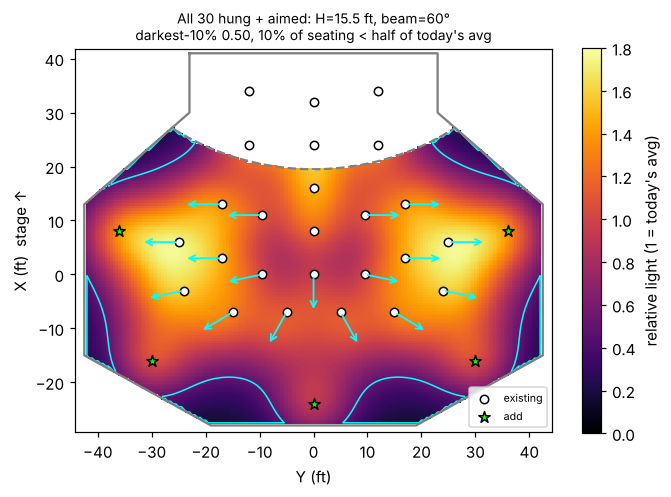
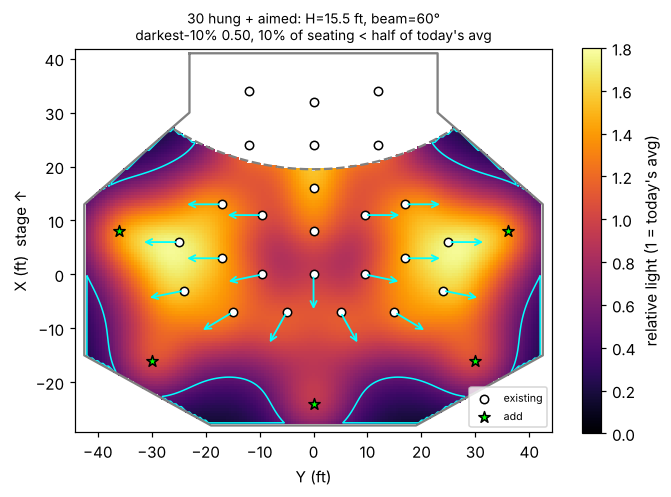
Plan for 25 fixtures: power/amps section, more-fixtures analysis, 25-fixture DMX chain and quantities
Claude-Session: https://claude.ai/code/session_017hiBDFPaLAENvL3psSk2oc

Changed region(s): [[0.2683, 0.0, 0.6557, 0.0604]]

diff --git a/tools/aiming.py b/tools/aiming.py
@@ -6,7 +6,7 @@ the platform). The script tries offsets and keeps whichever lifts the darkest
 10 % of seats most, while the middle of the room must keep >= 85 % of its
 straight-down level. Tilt is capped at MAX_TILT to limit glare.
 
-Usage: python3 tools/aiming.py [height_ft] [beam_deg]
+Usage: python3 tools/aiming.py [height_ft] [beam_deg] [--no-spares]
 """
 import math
 import sys
@@ -22,6 +22,7 @@ CENTRE = (2, 0)          # roughly the middle of the seating
 OFFSETS = [0, 1, 2, 3, 4, 5, 6, 7, 8, 10]
 MAX_TILT = 25            # degrees from straight down
 STAGE_X = 20             # fixtures at/over the stage are left alone
+NO_SPARES = "--no-spares" in sys.argv
 
 
 def lit(fx, fy, ax, ay, X, Y, height, m):
@@ -41,15 +42,16 @@ def aim_point(f, off):
 
 
 def main():
-    height = float(sys.argv[1]) if len(sys.argv) > 1 else 15.5
-    beam = float(sys.argv[2]) if len(sys.argv) > 2 else 50
+    args = [a for a in sys.argv[1:] if not a.startswith("--")]
+    height = float(args[0]) if args else 15.5
+    beam = float(args[1]) if len(args) > 1 else 50
     m = math.log(0.5) / math.log(math.cos(math.radians(beam / 2)))
 
     xs, ys = np.arange(-29, 42, 0.5), np.arange(-44, 44.5, 0.5)
     Y, X = np.meshgrid(ys, xs)
     mask = c.seating_mask(X, Y)
 
-    fixtures = c.FIXTURES + c.SUGGESTED
+    fixtures = c.FIXTURES + ([] if NO_SPARES else c.SUGGESTED)
     offs = [0] * len(fixtures)
     contrib = [lit(*f, *f, X, Y, height, m) for f in fixtures]
     total = sum(contrib)
@@ -79,7 +81,7 @@ def main():
             offs[i], contrib[i] = best[1], best[2]
 
     end = total[mask] / norm
-    print(f"H={height} beam={beam} (all 30 hung, relative to today's average)")
+    print(f"H={height} beam={beam} ({len(fixtures)} hung, relative to today's average)")
     print(f"  straight down : p10={np.percentile(start, 10):.2f} "
           f"below-half={(start < 0.5).mean():.0%}")
     print(f"  with aiming   : p10={np.percentile(end, 10):.2f} "
@@ -96,15 +98,17 @@ def main():
 
     fig, ax = plt.subplots(figsize=(7, 6.5))
     im = c.plot(ax, X, Y, total * c.illuminance(c.FIXTURES, X, Y, height, beam)[mask].mean()
-                / norm, mask, c.FIXTURES, c.SUGGESTED,
-                f"All 30 hung + aimed: H={height:g} ft, beam={beam:g}°\n"
+                / norm, mask, [f for f in fixtures if f not in c.SUGGESTED],
+                [] if NO_SPARES else c.SUGGESTED,
+                f"{len(fixtures)} hung + aimed: H={height:g} ft, beam={beam:g}°\n"
                 f"darkest-10% {np.percentile(end, 10):.2f}, "
                 f"{(end < 0.5).mean():.0%} of seating < half of today's avg")
     for f, (ax_, ay_), _ in rows:
         ax.annotate("", xy=(ay_, ax_), xytext=(f[1], f[0]),
                     arrowprops=dict(arrowstyle="->", color="cyan", lw=1.2))
     fig.colorbar(im, ax=ax, shrink=0.7, label="relative light (1 = today's avg)")
-    out = f"docs/aiming_H{height:g}_B{beam:g}.png"
+    tag = "_25" if NO_SPARES else ""
+    out = f"docs/aiming_H{height:g}_B{beam:g}{tag}.png"
     fig.savefig(out, dpi=110, bbox_inches="tight")
     print("  ->", out)
 

diff --git a/tools/coverage.py b/tools/coverage.py
@@ -30,7 +30,7 @@ FIXTURES = [
     (-7, -15), (-7, -5), (-7, 5), (-7, 15),
 ]
 
-# Suggested positions for the ~5 spare fixtures (30 owned - 25 hung)
+# Suggested positions if fixtures are added (only 25 are owned/hung)
 SUGGESTED = [(8, -36), (8, 36), (-16, -30), (-16, 30), (-24, 0)]
 
 ROOM = [(41, -23), (41, 23), (30, 23), (13, 42.5), (-15, 42.5), (-28, 19),

diff --git a/README.md b/README.md
@@ -1,6 +1,6 @@
 # Church 100 W Bi-Color COB Light – Quiet & Reliability Upgrade
 
-Plan for ~30 no-name 100 W warm-white / daylight COB fixtures (6-ch DMX) that
+Plan for 25 no-name 100 W warm-white / daylight COB fixtures (6-ch DMX) that
 have loud fans and dead warm or cool channels.
 
 ## What's in the fixture (from photos)
@@ -73,7 +73,7 @@ and after — only commit after confirming it behaves.
   dated 2011, PSU 2016). Replace any suspect ones with 105 °C low-ESR parts.
 - Reflow any cracked solder joints on the XLR and connector boards.
 
-### 5. Validate (do on the first 1–2 units before doing all 30)
+### 5. Validate (do on the first 1–2 units before doing all 25)
 - Both channels at 100 % for 60 minutes in its normal hanging orientation.
 - Measure the heatsink next to the COB: **target < 60 °C**; COB case
   **< 80 °C**. If over, raise the controller's fan curve or do step 3.
@@ -85,7 +85,7 @@ and after — only commit after confirming it behaves.
 |---|---|---|
 | PWM fan, same size | Arctic P8 / P9 PWM, Noctua NF-A8 / NF-A9 PWM (quietest) | $8–$22 |
 | PWM temp controller w/ NTC | "12 V 4-wire PWM fan temperature controller" module | $3–$8 |
-| Thermal compound | Arctic MX-4 (one 20 g tube does all 30) | ~$1 |
+| Thermal compound | Arctic MX-4 (one 20 g tube does all 25) | ~$1 |
 | Replacement COB (if needed) | 100 W bi-color (≈3000 K + 6000 K), 2-channel, matching size & voltage | $8–$20 |
 | Sense resistor (optional) | 0.15 Ω 2512 1 W | <$1 |
 
@@ -121,8 +121,8 @@ This changes some choices above:
     10–20 % loss, softens hot spots and widens the beam.
   - Heavy diffusion (Lee 216 full white class): loses 50 %+, so avoid it.
   - Mount gel/diffusion in a gel frame at the front, not against the COB.
-  - Moving one or two repaired spare fixtures to the dead areas usually helps
-    more than any diffuser.
+  - Adding a fixture or two over the dead areas usually helps more than any
+    diffuser (see "Do we need more fixtures?").
 
 ## Room layout notes (from sanctuary photos)
 
@@ -149,8 +149,8 @@ This changes some choices above:
    `2 × height × tan(beam angle ÷ 2)`. If that is smaller than the fixture
    spacing, there will be dark gaps between the pools of light. A light frost
    fixes that by widening every beam a little.
-5. **Add fixtures where the grid doesn't reach.** Repaired spares hung over
-   the outer wedges beat any diffuser.
+5. **Add fixtures where the grid doesn't reach** (optional, see "Do we need
+   more fixtures?"). Fixtures hung over the outer wedges beat any diffuser.
 
 ## Recommended parts (rebuild of all fixtures)
 
@@ -187,7 +187,7 @@ full speed, step up to a higher-airflow model.
 
 ### Thermal interface
 - **Arctic MX-6** or **Noctua NT-H2** paste: non-curing, non-conductive, and
-  resists pump-out. Each COB needs ~0.3–0.5 g, so ~15 g covers 30 fixtures.
+  resists pump-out. Each COB needs ~0.3–0.5 g, so ~15 g covers 25 fixtures.
   Buy 2 × 8 g or one 20 g tube.
 - Upgrade option: **Honeywell PTM7950** phase-change pad cut to the COB size.
   It never dries out or pumps out, which suits fixtures running hot for hours.
@@ -213,9 +213,9 @@ Beam angle isn't measured, so it was run at 45° (bare) and 60° (with frost):
   reach those bands.
 - The front-center seats get well above the average (the stage-front row at
   X = 24 also spills there). Side walls and rear corners get 10–30 %.
-- Moving the ~5 spare fixtures to **(X, Y) = (8, ±36), (−16, ±30), (−24, 0)**
-  cuts the seating below half the average from **43 % to 21 %** (60°), or
-  from 47 % to 27 % (45°).
+- *If* 5 fixtures were added at **(X, Y) = (8, ±36), (−16, ±30), (−24, 0)**,
+  the seating below half the average would drop from **43 % to 21 %** (60°),
+  or from 47 % to 27 % (45°), all pointing straight down.
 
 See `docs/coverage_H15.5_B60.png` and `docs/coverage_H15.5_B45.png`. Re-run:
 `python3 tools/coverage.py <height_above_seats_ft> <beam_deg>`.
@@ -224,18 +224,19 @@ Full shopping list: `PARTS_LIST.md`.
 
 ## Aiming (tools/aiming.py)
 
-With all 30 hung (25 existing + 5 spares), the model's best result comes
-from one simple rule:
+The model's best result for the **25 hung fixtures** comes from one rule:
 
 - **Tilt every house fixture ~20–25° away from the room's center line,**
   sideways or toward the rear, **never toward the stage** (that glares the
-  platform). Leave the two center-line fixtures at (8, 0) and (16, 0), the
-  stage fixtures, and the 5 relocated spares pointing straight down.
-- With frost (60°): seating below half of today's average drops from 21 %
-  (spares added, all straight down) to **10 %**. Without frost (45°) it drops
-  from 27 % to 13 %. Going past 25° only gains a little more (9 % at 30°) and
-  raises glare, so 25° is the limit.
-- Map with arrows: `docs/aiming_H15.5_B60.png` (`_B45` for no frost).
+  platform). Leave the two center-line fixtures at (8, 0) and (16, 0) and the
+  stage fixtures pointing straight down.
+- With frost (60°): seating below half of today's average drops from
+  **43 % to 28 %**. Without frost (45°): 47 % → 29 %. Going past 25° gains
+  little and raises glare.
+- What's left dark is the outer ~8–10 ft along each side wall and the rear
+  ~10 ft. Only added fixtures fix that (see below).
+- Map with arrows: `docs/aiming_H15.5_B60_25.png`. With 5 added fixtures:
+  `docs/aiming_H15.5_B60.png` (10 % below half).
 
 | Fixture (X, Y) | Aim beam center at (X, Y) |
 |---|---|
@@ -263,19 +264,73 @@ How to aim in the field:
 5. Fit the frost frames **after** aiming, then do a quick lux-app walk of the
    seating to confirm.
 
+## Do we need more fixtures?
+
+**Not to start.** Do the 25 first: repair (new COBs restore both colors),
+aim, frost, then walk the room with the lux app.
+
+| Setup (60° with frost) | Seating below half of avg |
+|---|---|
+| 25, straight down | 43 % |
+| **25, aimed** | **28 %** |
+| 30 (5 added), straight down | 21 % |
+| 30 (5 added), aimed | 10 % |
+
+- "Average" here assumes every fixture has both colors working. Today many
+  have a dead half, so the **real improvement from the repairs is bigger**
+  than this table shows.
+- Moving center fixtures out to the edges doesn't help with only 25: it just
+  makes a dark hole in the middle of the seating.
+- If the edges are still too dark after phase 1, add **2–4 fixtures** at
+  the rear corners (−16, ±30) first, then the side walls (8, ±36). Put them on
+  a separate circuit (see Power).
+
+## Power (one wall switch)
+
+Per fixture, measured: LED 30 V × 2.8 A ≈ **84 W**. Add the fan and logic
+(~4 W) and power-supply losses (~85 % efficient), and it's about **100–105 W
+from the wall**. At 120 V that's **~0.9 A each**. If the supply has poor power
+factor (common on cheap units), it could be up to ~1.4 A each.
+
+| | Watts | Amps @ 120 V (good PF → poor PF) | 20 A circuits needed* |
+|---|---|---|---|
+| 25 fixtures | ~2,600 W | **~22 A → 34 A** | 2 (3 if poor PF) |
+| 30 fixtures | ~3,100 W | **~26 A → 41 A** | 2–3 |
+| Each extra fixture | ~105 W | ~0.9–1.4 A | — |
+
+\* A 20 A breaker should carry **≤ 16 A continuous** (80 % rule for loads
+running 3+ hours). That's ~15 fixtures per 20 A circuit, or ~10 with poor PF.
+
+What this means:
+- **25 fixtures can't be on a single 20 A circuit.** They are already on 2+
+  circuits, or a 208/240 V circuit (halve the amps), or the wall switch drives
+  a relay or contactor. Have an electrician confirm what the switch actually
+  controls.
+- **Watch out after the repair:** today many fixtures run only one color, so
+  they draw roughly half power. Once every fixture has both colors back at
+  100 %, the load goes **up**, and a circuit that's fine today could trip.
+- **Measure one fixture first:** plug it into a watt meter (Kill-A-Watt) at
+  100 % both colors and read the amps directly. Multiply by 25.
+- **Inrush:** switching 25 power supplies on at once with one wall switch
+  causes a big current spike. It can trip breakers or wear out the switch.
+  If that happens, an electrician can add a contactor, or split the load
+  across two switches.
+- Adding fixtures means **adding a circuit**, not just plugging into the
+  existing run.
+
 ## DMX wiring (tools/dmx_route.py)
 
 ### One chain or split?
 
-**One chain through all 30 is fine here** and uses the least cable:
+**One chain through all 25 is fine here** and uses the least cable:
 
-- 30 fixtures is under the **32-device limit** for one DMX line. That only
+- 25 fixtures is well under the **32-device limit** for one DMX line. That only
   holds if nothing else (stage pars, hazer, etc.) shares the line. Count
   everything on it.
 - The XLR in/out board on the back of each fixture is **passive** (traces
   straight from IN to OUT). A fixture that's off or failed still passes
   data. Only a bad cable or connector breaks the chain after that point.
-- Length: ~400 ft along the ceiling plus drops and slack is about **600 ft**,
+- Length: ~305 ft along the ceiling plus drops and slack is about **475 ft**,
   well under the ~1,000 ft limit.
 
 **When splitting is worth it:** if a cable fault going dark mid-service
@@ -295,19 +350,18 @@ would be a real problem, or you add more fixtures to the line. A cheap
 
 ### Single-chain order (`docs/dmx_single_chain.png`)
 
-From the booth: rear-center spare → right side → right-center → stage →
-down the middle → left side → **finish at stage-left (34, −12) with the
-terminator**. The order (X, Y):
+From the booth: center-rear → right side → stage → down the middle → left
+side → **finish at the left rear (−3, −24) with the terminator**. The order
+(X, Y):
 
-(−24,0) → (−16,30) → (8,36) → (6,25) → (−3,24) → (−7,15) → (−7,5) → (0,9.5)
-→ (3,17) → (13,17) → (11,9.5) → (24,12) → (34,12) → (32,0) → (24,0) → (16,0)
-→ (8,0) → (0,0) → (0,−9.5) → (−7,−5) → (−7,−15) → (−16,−30) → (8,−36)
-→ (6,−25) → (−3,−24) → (3,−17) → (13,−17) → (11,−9.5) → (24,−12)
-→ **(34,−12) T**
+(−7,5) → (0,9.5) → (−7,15) → (−3,24) → (6,25) → (3,17) → (13,17) → (11,9.5)
+→ (34,12) → (24,12) → (24,−12) → (34,−12) → (32,0) → (24,0) → (16,0) → (8,0)
+→ (0,0) → (−7,−5) → (−7,−15) → (0,−9.5) → (11,−9.5) → (13,−17) → (3,−17)
+→ (6,−25) → **(−3,−24) T**
 
 If you keep two runs, split this order where it's convenient, for example
 right half + stage on one and middle + left on the other, and terminate both
-ends. A three-run split for a splitter is in `docs/dmx_runs.png`.
+ends. (`docs/dmx_runs.png` shows a three-run split, drawn for 30 fixtures.)
 
 At each fixture:
 - Leave a **service loop** big enough for full pan and tilt. Tie it to the yoke
@@ -327,9 +381,9 @@ Rules:
 - **Run DMX at least a foot away from power,** and cross power at right angles.
 - Label both ends of every cable, and tag each fixture with its address.
 
-Addressing: 30 × 6 ch = 180 channels, so one universe. Give fixtures **in the
+Addressing: 25 × 6 ch = 150 channels, so one universe. Give fixtures **in the
 same zone the same start address** so the console sees a few zones instead of
-30 fixtures. For example: front house, rear house, left side, right side,
+25 fixtures. For example: front house, rear house, left side, right side,
 stage. Fixtures sharing an address simply mirror each other.
 
 ## Measurements (before ordering COBs)

diff --git a/PARTS_LIST.md b/PARTS_LIST.md
@@ -1,6 +1,6 @@
-# Parts List – 30-Fixture Rebuild
+# Parts List – 25-Fixture Rebuild
 
-Quantities are for **30 fixtures plus spares**. Prices are rough (late 2026)
+Quantities are for **25 fixtures plus 2 spares (27)**. Prices are rough (late 2026)
 and are for budgeting only.
 
 > **Buy a test batch first** (1 COB pack, 2 fans, 2 controllers). Rebuild one
@@ -12,7 +12,8 @@ and are for budgeting only.
       Sibling models in this series run ~3,250–4,000 rpm and ~39–46 CFM,
       which is why it's loud.
 - [x] COB: **40 × 40 mm base, 34 × 34 mm screw holes, 21 × 21 mm light area**
-- [ ] COB current per channel at 100 % (see README: R130, DC clamp, or wall watt meter)
+- [x] COB current per channel: 1.4 A each (blue, green)
+- [ ] **Wall amps for one fixture** at 100 % both colors (watt meter), then have an electrician confirm the circuits behind the wall switch can carry 25 × that (see README "Power")
 - [x] COB: **Vf 30 V; blue 1.4 A + green 1.4 A (~42 W per color, ~84 W total)**; yellow + black joined = **common + (confirmed common anode)**; both halves have burned spots, so replace all
 - [ ] Mounting height and beam angle (for the coverage model)
 - [x] Lens 140 mm; front brackets 8.5 in apart, 3.5 in long, 2 holes 62 mm apart each (for the frost frame)
@@ -21,24 +22,24 @@ and are for budgeting only.
 
 | # | Item | Spec / example | Qty | ~Each | ~Total |
 |---|---|---|---|---|---|
-| 1 | COB LED, **drop-in** | Bi-color (≈3000/3200 K + 5600/6000 K), 2 channels, **40 × 40 mm base, 34 × 34 mm M3 holes, ~20 × 20 mm LES**, CRI ≥ 90, **Vf 28–32 V per channel at ~1.4 A**, rated **≥ 1.8 A (≈ 55–60 W) per channel** so it runs at ~75–80 % of rating. Wiring: **common-anode 3-pad**, or 4 independent pads (join the two + pads). **Not common-cathode** | 32 | $10–25 | — |
-| 1b | COB LED, *alternative* | YUJILEDS 400H (CRI 95+, 3200/5600 K) is 46 × 40 mm with a larger light area. Needs new holes drilled and tapped in the heatsink, and must clear the reflector opening. Only if no good 40 × 40 part turns up | 16 packs | check site | — |
-| 2 | Fan (quiet) | **Noctua NF-A8 PWM** (80 × 25 mm, 2200 rpm, 17.7 dB(A)) | 32 | $20–23 | ~$700 |
-| 2b | Fan (if NF-A8 runs too hot) | Noctua NF-A8 industrialPPC-3000 PWM: about the stock airflow, quieter in tone, louder than 2 | 32 | ~$25 | ~$800 |
-| 2c | Fan (budget) | Arctic P8 PWM PST (80 mm) | 32 | $8–10 | ~$300 |
-| 3 | Fan temp controller | 12 V 4-wire PWM fan controller, 10 k NTC probe, adjustable start temp, non-zero minimum speed | 32 | $4–8 | ~$200 |
+| 1 | COB LED, **drop-in** | Bi-color (≈3000/3200 K + 5600/6000 K), 2 channels, **40 × 40 mm base, 34 × 34 mm M3 holes, ~20 × 20 mm LES**, CRI ≥ 90, **Vf 28–32 V per channel at ~1.4 A**, rated **≥ 1.8 A (≈ 55–60 W) per channel** so it runs at ~75–80 % of rating. Wiring: **common-anode 3-pad**, or 4 independent pads (join the two + pads). **Not common-cathode** | 27 | $10–25 | ~$270–675 |
+| 1b | COB LED, *alternative* | YUJILEDS 400H (CRI 95+, 3200/5600 K) is 46 × 40 mm with a larger light area. Needs new holes drilled and tapped in the heatsink, and must clear the reflector opening. Only if no good 40 × 40 part turns up | 14 packs | check site | — |
+| 2 | Fan (quiet) | **Noctua NF-A8 PWM** (80 × 25 mm, 2200 rpm, 17.7 dB(A)) | 27 | $20–23 | ~$600 |
+| 2b | Fan (if NF-A8 runs too hot) | Noctua NF-A8 industrialPPC-3000 PWM: about the stock airflow, quieter in tone, louder than 2 | 27 | ~$25 | ~$675 |
+| 2c | Fan (budget) | Arctic P8 PWM PST (80 mm) | 27 | $8–10 | ~$250 |
+| 3 | Fan temp controller | 12 V 4-wire PWM fan controller, 10 k NTC probe, adjustable start temp, non-zero minimum speed | 27 | $4–8 | ~$160 |
 | 4 | Thermal paste | Arctic MX-6 or Noctua NT-H2 (~0.5 g per COB) | 20 g total | — | ~$20 |
-| 4b | Thermal pad (upgrade alt.) | Honeywell PTM7950 sheet, cut to ~40 × 40 mm | enough for 32 | — | ~$40–60 |
+| 4b | Thermal pad (upgrade alt.) | Honeywell PTM7950 sheet, cut to ~40 × 40 mm | enough for 27 | — | ~$40–60 |
 
-Rough rebuild total: **about $1,000–1,800 plus the COBs**, depending on the fan choice.
+Rough rebuild total: **about $700–1,500 including COBs** (fan choice and COB price drive it), plus frost and frames.
 
 ## Front diffusion (light frost, ~10–15 % loss): all fixtures
 
 | Item | Spec / example | Qty |
 |---|---|---|
-| Light frost filter | **Lee 410 Opal Frost** (lightest; aim for ~10–15 % loss) or Rosco 114 Hamburg Frost (a bit softer, a bit more loss). Use the polyester/heat-rated version, not craft-store film | **6.5 × 6.5 in per fixture**: **4 sheets (21 × 24 in)** at 9 per sheet = 36 pieces, or 1 roll (48 in × 25 ft) for years of replacements |
-| Frost frame plates | 0.040 in aluminum (or 1/16 in black ABS), ~9.5 × 7 in, 145 mm center hole, 2 holes per side 62 mm apart (see README "Frost frame") | 64 (2 per fixture) |
-| Frame screws / nuts | to suit the front-bracket threads | ~130 |
+| Light frost filter | **Lee 410 Opal Frost** (lightest; aim for ~10–15 % loss) or Rosco 114 Hamburg Frost (a bit softer, a bit more loss). Use the polyester/heat-rated version, not craft-store film | **6.5 × 6.5 in per fixture**: **3 sheets (21 × 24 in)** at 9 per sheet = 27 pieces, or 1 roll (48 in × 25 ft) for years of replacements |
+| Frost frame plates | 0.040 in aluminum (or 1/16 in black ABS), ~9.5 × 7 in, 145 mm center hole, 2 holes per side 62 mm apart (see README "Frost frame") | 50 (2 per fixture) + 2 spare |
+| Frame screws / nuts | to suit the front-bracket threads | ~110 |
 | Flat-black paint | if using aluminum plates | 1–2 cans |
 | Circle cutter or template + sharp knife | clean, identical cuts | 1 |
 
@@ -46,7 +47,7 @@ Notes:
 - Keep the frost **on the front glass, not near the COB**. LED fixtures run
   cool enough at the front for standard theatrical filter.
 - Buy one sheet first. Check the loss with the lux app on one fixture before
-  cutting all 30.
+  cutting all 25.
 - Frost softens and widens every beam by roughly 10–15°. Re-check the aiming
   after it's fitted, since you may need slightly less tilt.
 
@@ -83,18 +84,18 @@ Notes:
 | Soldering iron, flux, solder wick | COB leads, connector repairs, caps if needed |
 | Phone lux-meter app | Before/after light map of the seating |
 | DC clamp meter (optional, e.g. UNI-T UT210E) | Easiest way to read LED current |
-| Plug-in watt meter (optional) | Rough LED power check at the wall |
+| **Plug-in watt meter (Kill-A-Watt type)** | Measure one fixture's real wall amps before the repaired fixtures go back on the circuit |
 
-## Relocating the ~5 spare fixtures (see coverage map)
+## Optional phase 2: adding fixtures (only if edges are still dark)
 
-Your plan shows 25 hung fixtures, and you own about 30. Once repaired, the
-spares go to the dark areas.
+Not needed to start. See README "Do we need more fixtures?" and "Power".
 
 | Item | Qty |
 |---|---|
-| Hanging hardware to match existing mounts (clamp/yoke) | 5 |
-| Safety cables (rated, one per fixture) | 5 (plus check the existing 25) |
-| Power to each new position | **have an electrician run it** |
+| Additional fixtures (same type, or a modern quiet bi-color par) | 2–4 |
+| Hanging hardware to match existing mounts (clamp/yoke) | per fixture |
+| Safety cables (rated, one per fixture) | per fixture (plus check the existing 25) |
+| **New circuit** for the added fixtures (~1–1.4 A each) | **electrician** |
 
 ## Only if needed (inspect first)
 
